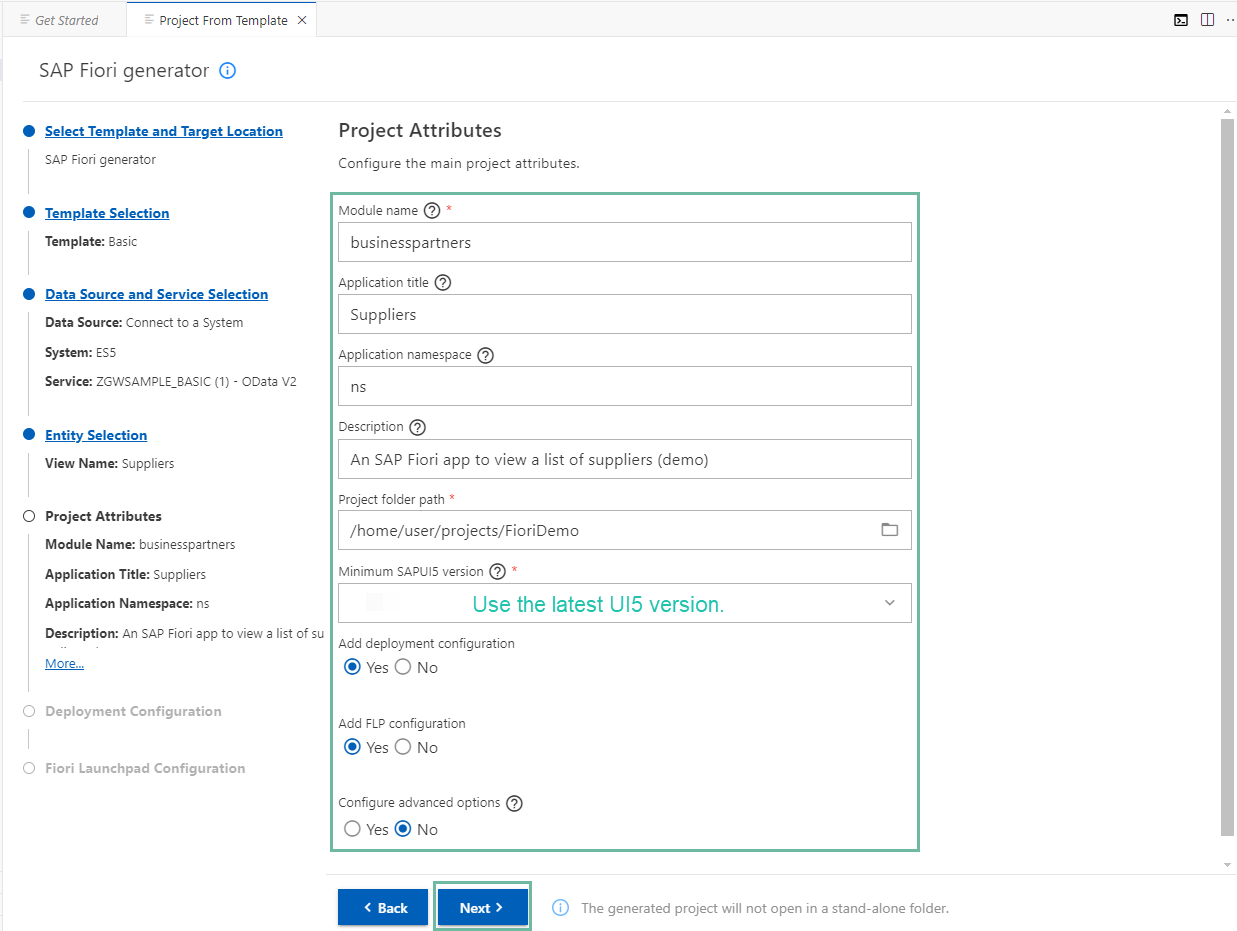
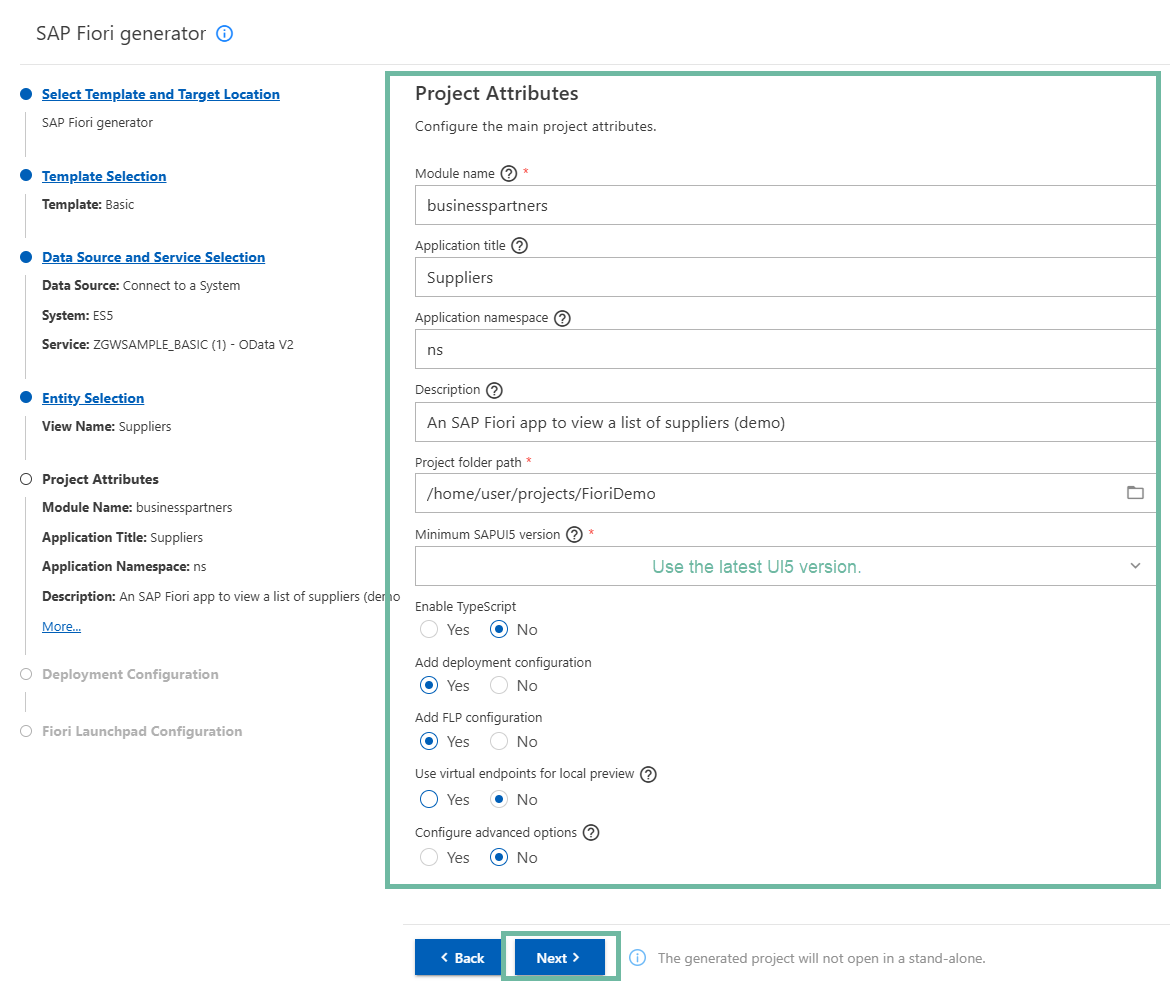
minor changes

Changed region(s): [[0.0, 0.0, 1.0, 1.0], [0.0308, 0.8099, 0.1846, 0.841], [0.9538, 0.0, 0.9846, 0.0311]]

diff --git a/tutorials/appstudio-fioriapps-create/appstudio-fioriapps-create.md b/tutorials/appstudio-fioriapps-create/appstudio-fioriapps-create.md
@@ -111,8 +111,10 @@ The flow consists of the following parts:
     | Description | **An SAP Fiori app to view a list of suppliers (demo)** |
     | Project folder path | **`/home/user/projects/FioriDemo`** |
     | Minimum SAPUI5 version | (Use the latest version)  |
+    | Enable TypeScript | **No** |
     | Add deployment configuration | **Yes** |
     | Add FLP configuration | **Yes** |
+    | Use virtual endpoints for local preview | **No** |
     | Configure advanced options | **No** (default) |
 
     Make sure to set the correct project folder path and to use the latest SAPUI5 version.
@@ -130,7 +132,7 @@ The flow consists of the following parts:
     |:----------|:------|
     | Please choose the target | **Cloud Foundry** (default) |
     | Destination name | **ES5 - https: //sapes5.sapdevcenter.com** |
-    | Add application to managed application router? | **Yes** |
+    | Add Router Module | Add Application to Managed Application Router |
 
     <!-- border -->![deployment configuration](BAS-Generate-App-7-1-.png)
 
